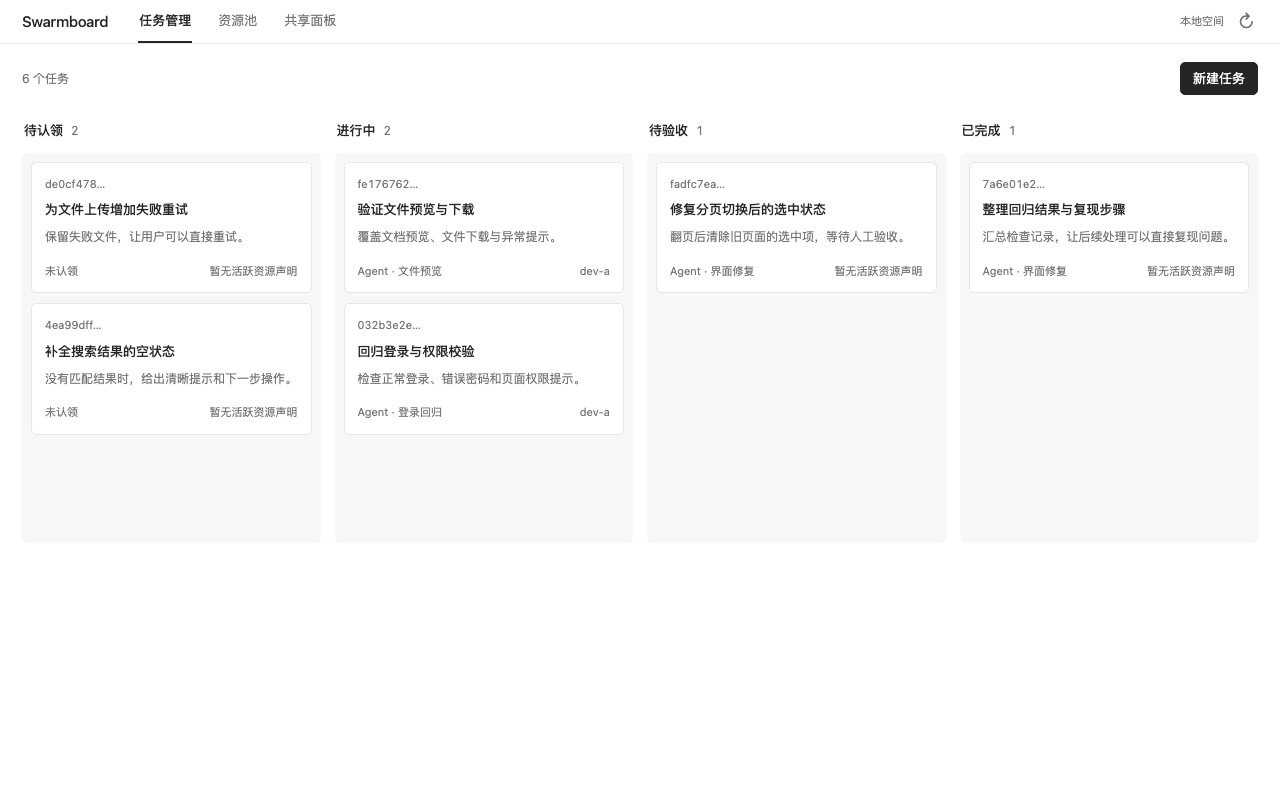
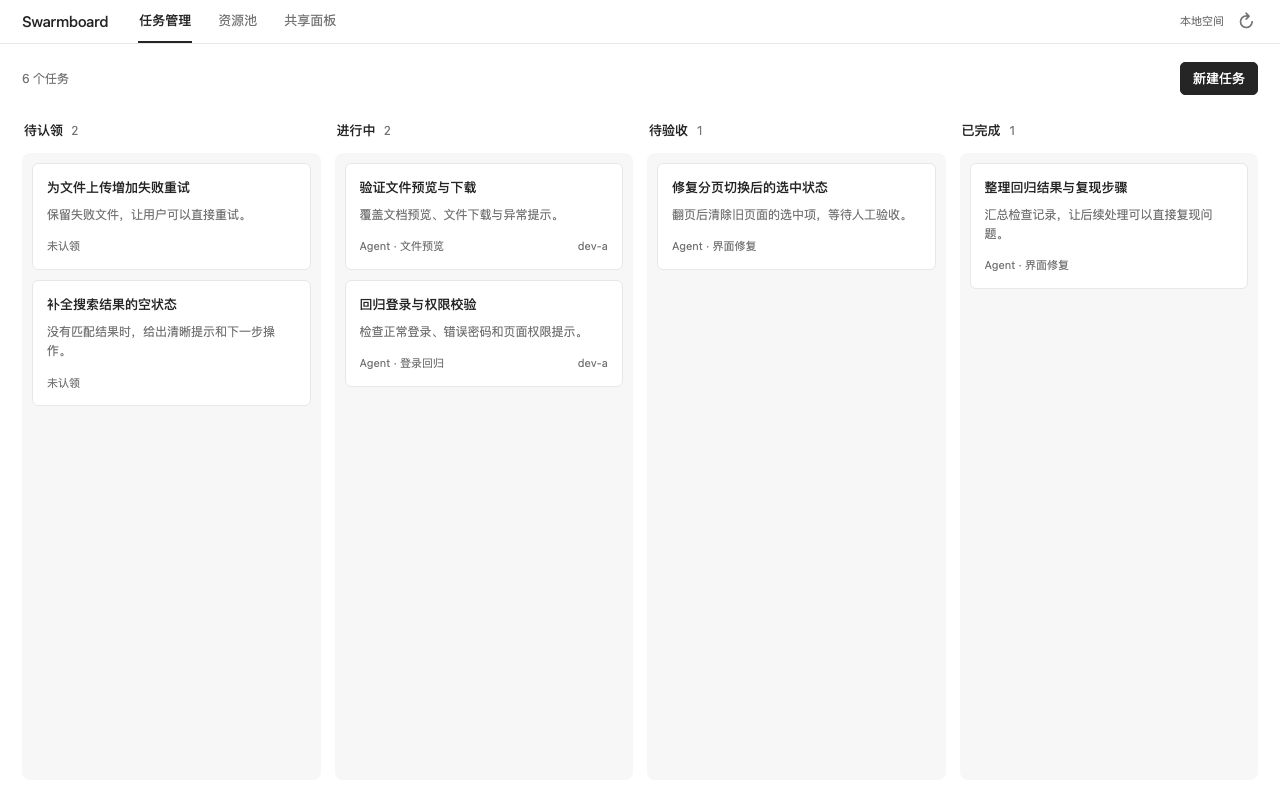
Release compact task board UI in desktop plugin 0.5.1

diff --git a/src/codex-session.ts b/src/codex-session.ts
@@ -36,7 +36,7 @@ export class CodexSession implements SessionAdapter {
       lines.on('line', line => { try { this.receive(JSON.parse(line)); } catch { /* Ignore non-protocol diagnostics. */ } });
       const failed = () => this.fail(new Error('Codex App Server disconnected; inspect the bound session before retrying'));
       this.child.once('error', failed); this.child.once('exit', failed); this.child.stdin.on('error', failed); this.child.stdout.on('error', failed);
-      await this.request('initialize', { clientInfo: { name: 'swarmboard-event-worker', title: 'Swarmboard event worker', version: '0.5.0' }, capabilities: { experimentalApi: true } });
+      await this.request('initialize', { clientInfo: { name: 'swarmboard-event-worker', title: 'Swarmboard event worker', version: '0.5.1' }, capabilities: { experimentalApi: true } });
       this.send({ method: 'initialized' });
     })();
   }

diff --git a/web/main.tsx b/web/main.tsx
@@ -193,7 +193,7 @@ function Workspace() {
     async function start() {
       try {
         if (window.parent !== window) {
-          const app = new App({ name: 'Swarmboard', version: '0.5.0' });
+          const app = new App({ name: 'Swarmboard', version: '0.5.1' });
           localBridge = app;
           app.ontoolresult = result => {
             try {

diff --git a/docs/verification.md b/docs/verification.md
@@ -1,3 +1,9 @@
+# 0.5.1 看板布局验证（2026-10-17）
+
+- 状态列在可用窗口高度内等高，列内纵向滚动；窄窗口保持至少 240px 列宽并在看板内横向滚动。卡片隐藏独立 UUID 和空资源提示，标题／说明各最多两行，说明引用的 UUID 只在卡片缩写，详情保留完整内容。
+- `npm run check` 通过：静态检查、类型检查、构建、打包、65 项服务／协议／集成测试及 22 项 Chromium 浏览器测试。新增浏览器回归实际测量空列与长列表的上下边界，验证列内滚动、长文本详情保留、窄屏无页面溢出和键盘打开屏外任务；既有拖拽与状态更新回归仍通过。
+- 使用隔离合成任务查看 1440px 桌面、1089px 窄窗口及 390px 手机截图，核对列底对齐和摘要层级。未修改真实看板任务、资源、MR 或生产配置；本次 UI 修改不扩大事件运行时的验收结论。
+
 # 0.5.0 事件工作会话验证（2026-10-17）
 
 - 已用正常本机 Codex CLI 执行真实模型验收：隔离看板创建合成任务，worker 读取合成文件并通过真实 MCP 发布 FACT、把任务交到 in_review；随后定向 MESSAGE 触发第二轮，复用同一 threadId。首轮含模型执行约 33 秒；未等待 cron。未使用真实业务材料、开发机、MR 或生产。

diff --git a/README.md b/README.md
@@ -60,7 +60,7 @@ codex plugin add swarmboard@swarmboard-local
 
 Restart the desktop app and open **Swarmboard** from the sidebar. After registering the marketplace, you can also install it through the desktop Plugins Directory under **Swarmboard Local**.
 
-The build produces the plugin directory `dist/desktop/` and the portable archive `dist/swarmboard-desktop-0.5.0.zip`. Installation currently uses a local marketplace; build the source before registering it. See [installation, upgrades, and troubleshooting](docs/setup.md) for details.
+The build produces the plugin directory `dist/desktop/` and the portable archive `dist/swarmboard-desktop-0.5.1.zip`. Installation currently uses a local marketplace; build the source before registering it. See [installation, upgrades, and troubleshooting](docs/setup.md) for details.
 
 ## Usage
 

diff --git a/README.zh-CN.md b/README.zh-CN.md
@@ -60,7 +60,7 @@ codex plugin add swarmboard@swarmboard-local
 
 重启桌面客户端，从侧边栏打开 **Swarmboard**。也可以在注册来源后，通过桌面的 Plugins Directory 选择 **Swarmboard Local** 并安装。
 
-构建会生成插件目录 `dist/desktop/` 和便携包 `dist/swarmboard-desktop-0.5.0.zip`。当前安装方式是本地 marketplace；从 GitHub 获取源码后需要先构建。更多步骤见[安装、升级与排查](docs/setup.zh-CN.md)。
+构建会生成插件目录 `dist/desktop/` 和便携包 `dist/swarmboard-desktop-0.5.1.zip`。当前安装方式是本地 marketplace；从 GitHub 获取源码后需要先构建。更多步骤见[安装、升级与排查](docs/setup.zh-CN.md)。
 
 ## 如何使用
 

diff --git a/docs/setup.md b/docs/setup.md
@@ -47,7 +47,7 @@ Restart the desktop app to load the new files. Collaboration data lives outside 
 `npm run package:desktop` produces:
 
 - `dist/desktop/`: the plugin directory.
-- `dist/swarmboard-desktop-0.5.0.zip`: a portable archive whose root is the plugin root.
+- `dist/swarmboard-desktop-0.5.1.zip`: a portable archive whose root is the plugin root.
 
 Extract the ZIP into a local marketplace and point its `source.path` at the extracted plugin root. The configuration uses `${PLUGIN_ROOT}`, so the extracted directory can be relocated. The target client still needs access to Node.js 24+. A public source repository or ZIP does not mean the plugin is listed in the OpenAI Plugin Directory.
 

diff --git a/docs/setup.zh-CN.md b/docs/setup.zh-CN.md
@@ -47,7 +47,7 @@ codex plugin list --marketplace swarmboard-local --json
 `npm run package:desktop` 生成：
 
 - `dist/desktop/`：插件目录。
-- `dist/swarmboard-desktop-0.5.0.zip`：ZIP 根目录即插件根目录。
+- `dist/swarmboard-desktop-0.5.1.zip`：ZIP 根目录即插件根目录。
 
 ZIP 可解压到自建的本地 marketplace，再让目录的 `source.path` 指向解压后的插件根目录。配置使用 `${PLUGIN_ROOT}`，解压目录可以移动；目标客户端仍需要可访问的 Node.js 24+。公开源码仓库和 ZIP 不代表已上架 OpenAI Plugin Directory。
 
